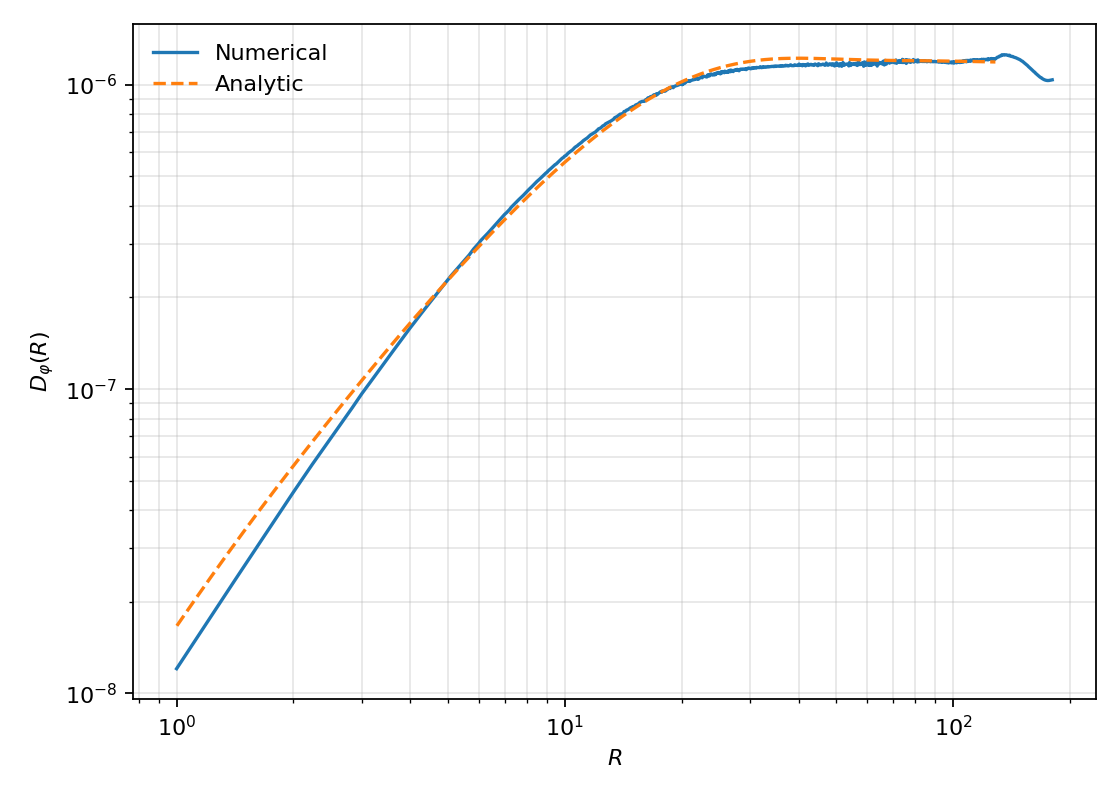
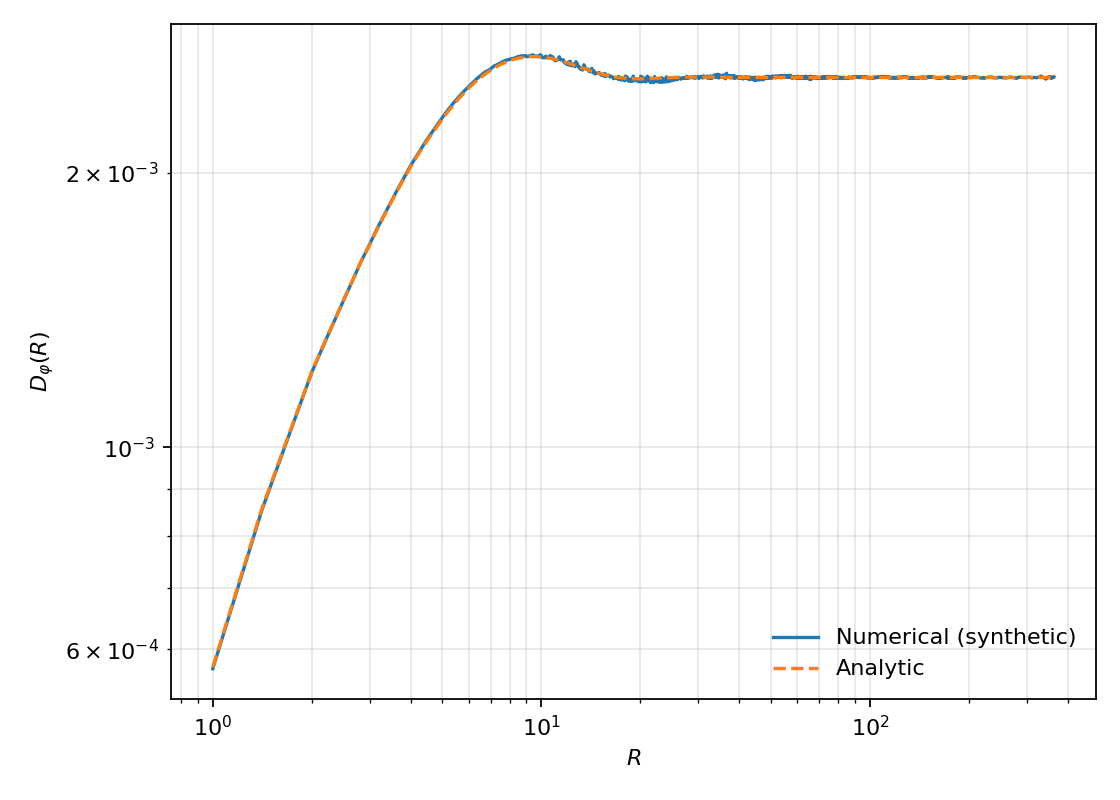
Ideal match of synthetic with analytical for directional structure function
Making the analytic model identical to the way the synthetic map is actually sampled and analyzed

diff --git a/interferometer/directional spectrum/strucure_function/structure_function.py b/interferometer/directional spectrum/strucure_function/structure_function.py
@@ -12,8 +12,8 @@ from scipy.special import j0
 
 @dataclass
 class Config:
-    # h5_path: str = "two_slope_2D_s4_r00.h5"
-    h5_path: str = "mhd_fields.h5"
+    h5_path: str = "two_slope_2D_s4_r00.h5"
+    # h5_path: str = "mhd_fields.h5"
 
 
 
@@ -21,7 +21,7 @@ class Config:
 
     alpha3D_low: float  = +1.5
     alpha3D_high: float = -5.0/3.0
-    k_break_cyc: float  = 0.02
+    k_break_cyc: float  = 0.1
 
     C_RM: float = 0.81
 
@@ -166,9 +166,9 @@ def Dphi_analytic_two_slope_numeric(
     dx, Lx,
     k_break_cyc,
     alpha_low=+1.5, alpha_high=-(5.0/3.0),
-    s=8.0,
+    s=4.0,
     sigma_phi_map=None,
-    use_pixel_window=True,
+    use_pixel_window=False,
 ):
     # print(s)
     Nx = int(round(Lx / dx))
@@ -210,60 +210,75 @@ def Dphi_analytic_two_slope_numeric(
     D_phi_no_lambda = 2.0 * (C0 - C_R)
     return D_phi_no_lambda
 
+
+def Dphi_analytic_from_grid(nx, ny, dx, k_break_cyc, alpha_low, alpha_high, s, sigma_phi2, lam,
+                            nbins_R, R_min, R_max_frac):
+    k_b = 2.0*np.pi*float(k_break_cyc)
+    kx = 2.0*np.pi*fftfreq(nx, d=dx)
+    ky = 2.0*np.pi*fftfreq(ny, d=dx)
+    KY, KX = np.meshgrid(ky, kx, indexing="ij")
+    K = np.hypot(KX, KY)
+    x = np.maximum(K, 1e-20) / k_b
+    t = 1.0/(1.0 + x**s)
+    alpha = alpha_low*t + alpha_high*(1.0 - t)
+
+    P2_shape = (x**(alpha - 1.0))
+    P2_shape[0,0] = 0.0
+
+    # normalize so C(0)=sigma_phi2
+    C0_model = (np.fft.ifft2(P2_shape).real)[0,0] / (nx*ny)
+    A = sigma_phi2 / C0_model if C0_model != 0 else 1.0
+    P2_model = A * P2_shape
+
+    C_map = np.fft.fftshift(np.fft.ifft2(P2_model).real) / (nx*ny)
+    R1d, C_R = radial_average_map(C_map, dx, nbins_R, R_min, R_max_frac)
+    Dphi = 0.5 * (1.0 - np.exp(-2.0*(lam**4) * (2.0*(sigma_phi2 - C_R))))
+    return R1d, Dphi
+
 def main(C=C):
     os.makedirs(C.outdir, exist_ok=True)
 
     ne, bz, dx, dz = load_cube(C.h5_path)
-    print(f"[load] ne,bz shapes: {ne.shape}, dx={dx}, dz={dz}")
-
     _, Phi = project_maps(ne, bz, dz, C.C_RM)
     ny, nx = Phi.shape
-    Rmax_pix = 0.5 * min(ny, nx) * C.R_max_frac
-    R1d = np.logspace(np.log10(C.R_min), np.log10(Rmax_pix), C.nbins_R)
-    
+
+    # Read synthesis parameters from the file (falls back to config if absent)
+    with h5py.File(C.h5_path, "r") as f:
+        attrs = dict(f.attrs)
+    k_break_cyc = float(attrs.get("k_break", C.k_break_cyc))
+    s_sharp     = float(attrs.get("s",        8.0))
+
+    sigma_phi2 = Phi.var(ddof=0)
+
     for i, lam in enumerate(C.lambdas_m):
-        sigma_phi_map = np.var(Phi)
-
-        ny, nx = Phi.shape
-        Rmax_pix = 0.5 * min(ny, nx) * C.R_max_frac
-        R1d = np.logspace(np.log10(C.R_min), np.log10(Rmax_pix), C.nbins_R)
-
-        R_ana = R1d * dx
-        Dphi_no_lambda = Dphi_analytic_two_slope_numeric(
-            R=R_ana,
-            dx=dx,
-            Lx=nx * dx,
-            k_break_cyc=C.k_break_cyc,
-            alpha_low=C.alpha3D_low,
-            alpha_high=C.alpha3D_high,
-            s=2.5,
-            sigma_phi_map=sigma_phi_map,
-            use_pixel_window=True,
-        )
-        Dphi_ana = (lam**4) * Dphi_no_lambda
-
-        mask = R_ana >= 1.0
-        R1d_cut = R1d[mask]
-        Dphi_ana_cut = Dphi_ana[mask]
-
+        # --- numerical (directional) ---
         R_num, _, Dphi_num = directional_S_and_Dphi_from_f(
-            lam**2 * Phi, dx, C.nbins_R, C.R_min, C.R_max_frac
+            lam**2 * Phi, dx, C.nbins_R, max(C.R_min, 1.0), C.R_max_frac
         )
 
-        plt.figure(figsize=(7, 5))
-        plt.loglog(R_num, Dphi_num, '-', label='Numerical')
-        plt.loglog(R1d_cut, Dphi_ana_cut, '--', label='Analytic')
+        # --- analytic on the *same FFT grid* ---
+        R_ana, Dphi_ana = Dphi_analytic_from_grid(
+            nx=nx, ny=ny, dx=dx,
+            k_break_cyc=k_break_cyc,
+            alpha_low=C.alpha3D_low, alpha_high=C.alpha3D_high,
+            s=s_sharp,
+            sigma_phi2=sigma_phi2,
+            lam=lam,
+            nbins_R=C.nbins_R, R_min=max(C.R_min, 1.0), R_max_frac=C.R_max_frac
+        )
+
+        # --- plot ---
+        plt.figure(figsize=(7,5))
+        plt.loglog(R_num, Dphi_num, '-',  label='Numerical (synthetic)')
+        plt.loglog(R_ana, Dphi_ana, '--', label='Analytic')
         plt.xlabel(r"$R$")
         plt.ylabel(r"$D_\varphi(R)$")
-        plt.grid(True, which="both", alpha=0.3)
+        plt.grid(True, which='both', alpha=0.3)
         plt.legend(frameon=False)
         plt.tight_layout()
-
-        outfile = os.path.join(C.outdir, f"Dphi_compare_{i}")
-        plt.savefig(outfile + ".png", dpi=C.dpi)
-        plt.savefig(outfile + ".pdf")
-
-        plt.show()
+        out = os.path.join(C.outdir, f"Dphi_compare_{i}")
+        plt.savefig(out + ".png", dpi=C.dpi)
+        plt.savefig(out + ".pdf")
         plt.close()
 
     print(f"Saved → {os.path.abspath(C.outdir)}")
